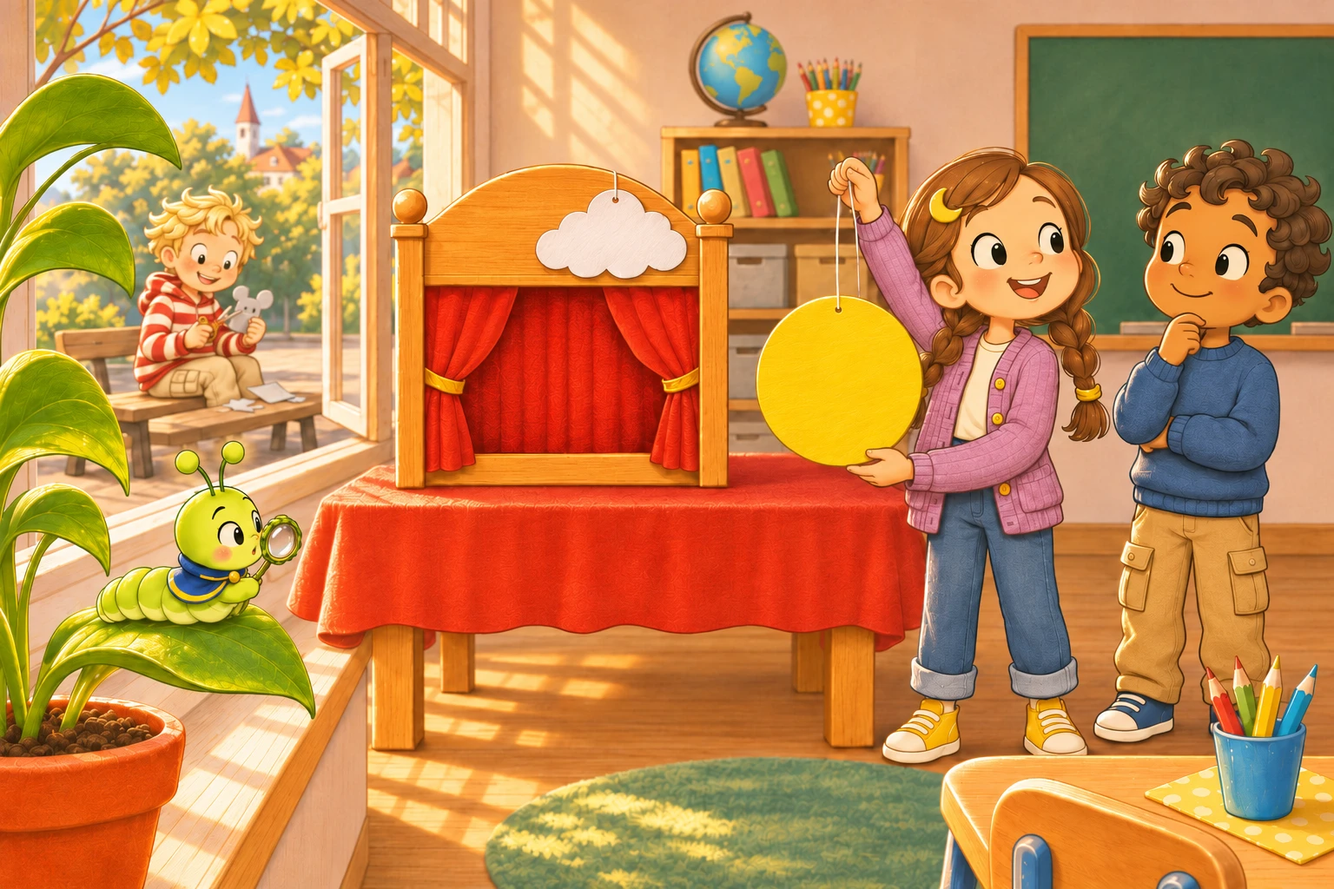
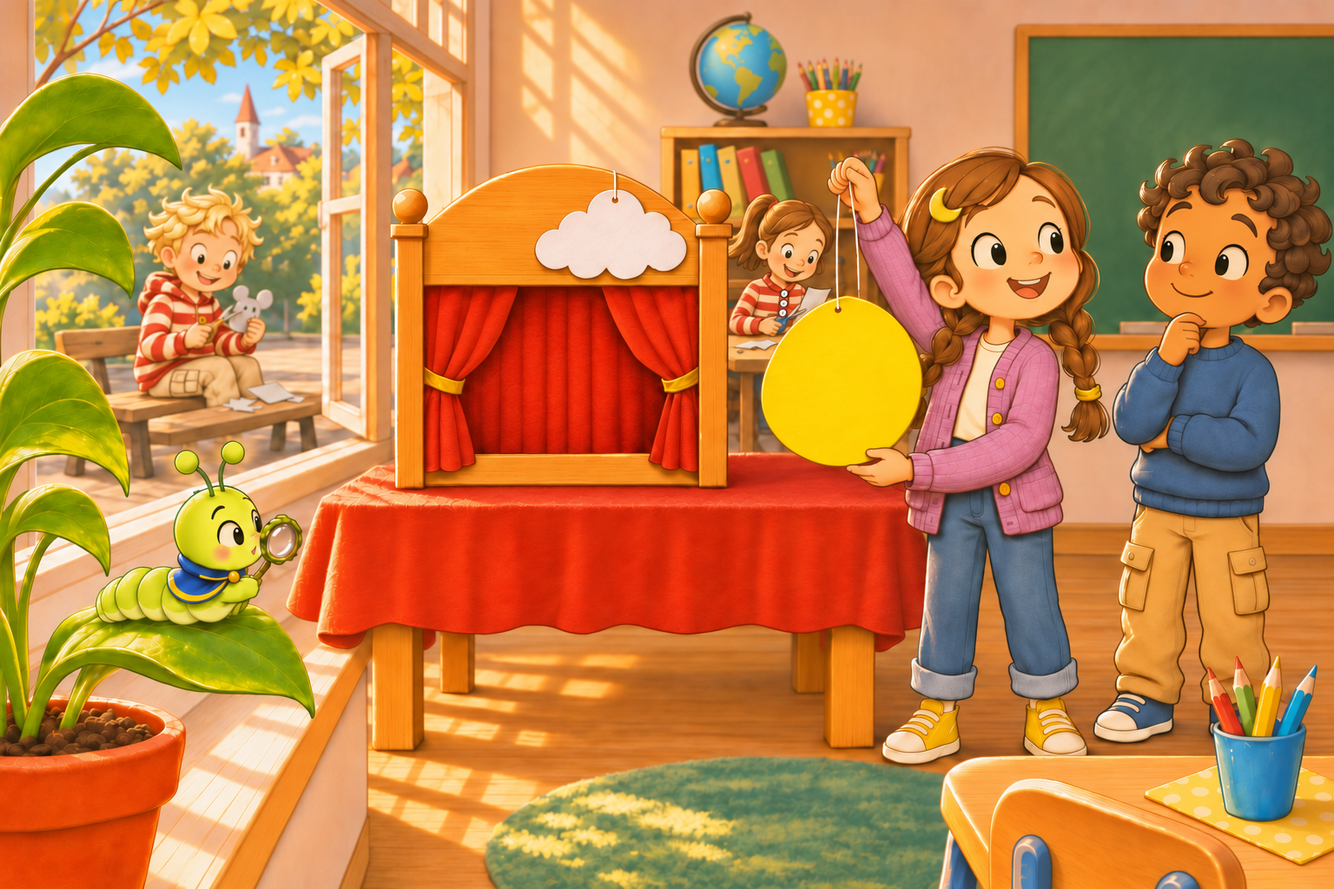
Bilder v8: alle 29 geliefert – k1_s1 mit Ida, Lina/Tom/Emil, Mond-Rückseiten, Vögel, gelbe Kreise vorn/hinten, Kinder von hinten, leerer Raum
Claude-Session: https://claude.ai/code/session_01XbiCnECXMiu6RfpngsWtJQ

diff --git a/02_design/BILDER_PROMPTS_v8.html b/02_design/BILDER_PROMPTS_v8.html
@@ -35,91 +35,15 @@ pre { white-space:pre-wrap; word-break:break-word; background:var(--pre); border
 :root[data-theme="dark"] .redo { background:#3A1F24; color:#FFC9C0; }
 </style></head><body><main>
 <h1>Картинки v8: что ещё нужно</h1>
-<p class="lead">Осталось 11: 9 переделать и 2 ещё не было. Готовые 18 уже в приложении и отсюда убраны. Нажмите «Скопировать промт», вставьте в генератор, приложите указанные эталоны из <code>assets/reference/</code> и <code>assets/illustrationen/</code>. Сохраните под именем из заголовка карточки и пришлите — разложу и вставлю в приложение.</p>
+<p class="lead">Осталось 0: 0 переделать и 0 ещё не было. Готовые 29 уже в приложении и отсюда убраны. Нажмите «Скопировать промт», вставьте в генератор, приложите указанные эталоны из <code>assets/reference/</code> и <code>assets/illustrationen/</code>. Сохраните под именем из заголовка карточки и пришлите — разложу и вставлю в приложение.</p>
 <ul class="rules">
 <li>Сначала карточки с красной плашкой «Почему переделать»: там сказано, что было не так.</li>
 <li><b>Стиль:</b> как остальные картинки книги — мягкая акварель и карандаш. Не плоская векторная графика и не глянцевое 3D.</li>
 <li>На предметах и детях фон светлый и ровный — вырезаю сама. У птиц фон ровный голубой: у сороки белое брюхо, на белом фоне его не вырезать.</li>
 <li>Нигде нет букв и цифр. Галочка «готово» запоминается только в этом браузере.</li>
 </ul>
-<nav><a href="#g0">Переделать · Глава 1 · правка <small>1</small></a><a href="#g1">Переделать · Дети (для глав 2–4) <small>3</small></a><a href="#g2">Переделать · Глава 2 <small>2</small></a><a href="#g3">Переделать · Глава 3 <small>3</small></a><a href="#g4">Ещё нет · Глава 4 <small>2</small></a><span id="stand"></span></nav>
-<section><h2 id="g0">Переделать · Глава 1 · правка</h2><article class="card" id="p1">
-  <header><span class="nr">1</span><code class="fn">k1_s1.webp</code>
-  <label class="done"><input type="checkbox" data-k="k1_s1"> готово</label></header>
-  <dl><dt>Где</dt><dd>Spur 1 — первая картинка книги</dd><dt>Приложить</dt><dd>сама картинка k1_s1 (редактировать её)</dd><dt>Формат</dt><dd>как оригинал (3:2)</dd></dl><p class="redo"><b>Почему переделать:</b> Пришла новая сцена вместо правки: Луна уже с коричневыми пятнами (спойлер Главы 3), Оскар в классе, а не во дворе. Нужно РЕДАКТИРОВАТЬ старую k1_s1: приложить её и попросить только дорисовать Иду сзади, всё остальное не трогать.</p><p class="note">Это Ида. Нужна, чтобы в финале главы Оскара нельзя было угадать заранее: решают пуговицы и капюшон.</p>
-  <pre>Edit the attached picture, keep everything else exactly as it is (same children, same room, same light, same style). Only add ONE more child in the background, a bit behind and to the side of the others: a girl with a light-brown ponytail, wearing a RED-AND-WHITE horizontally striped sweater WITHOUT a hood and WITH three round white buttons at the neck, busy with paper at the table. Her stripes must look like Oskar&#x27;s stripes, so that only the buttons and the missing hood tell them apart.</pre>
-  <button class="copy" type="button">Скопировать промт</button>
-</article></section><section><h2 id="g1">Переделать · Дети (для глав 2–4)</h2><article class="card" id="p2">
-  <header><span class="nr">2</span><code class="fn">kinder/lina.webp</code>
-  <label class="done"><input type="checkbox" data-k="kinder/lina"> готово</label></header>
-  <dl><dt>Где</dt><dd>ложные следы в главах 2–4, ряд подозреваемых</dd><dt>Приложить</dt><dd>лист детей (kinder_figurenblatt)</dd><dt>Формат</dt><dd>портрет 2:3, светлый фон (вырежу сама)</dd></dl><p class="redo"><b>Почему переделать:</b> Свитер верный, но каштановые косички — как у Милы. Нужна другая причёска (уже в промте).</p><p class="note">Цвет и узор свитера должны совпасть точно — по ним идёт загадка про рукав.</p>
-  <pre>Use the attached images as the exact reference for characters and style. Same children&#x27;s picture-book style. Plain warm white background, no text, no letters, no numbers, no stars. Every item clearly separated from the others with empty space around it, so it can be cut out. Soft hand-painted picture-book look (watercolor and colored pencil) like the attached images – NOT flat vector clip-art, no glossy 3D look.
-One child, full body, standing, friendly face, front view, about 8 years old, same drawing style and proportions as the attached children: a girl with straight BLACK hair in a short bob with a blue hairband (NOT braids), sweater with BLUE-and-white horizontal stripes and a hood. Dark trousers, sneakers. Nothing in the hands.</pre>
-  <button class="copy" type="button">Скопировать промт</button>
-</article><article class="card" id="p3">
-  <header><span class="nr">3</span><code class="fn">kinder/tom.webp</code>
-  <label class="done"><input type="checkbox" data-k="kinder/tom"> готово</label></header>
-  <dl><dt>Где</dt><dd>ложные следы в главах 2–4, ряд подозреваемых</dd><dt>Приложить</dt><dd>лист детей (kinder_figurenblatt)</dd><dt>Формат</dt><dd>портрет 2:3, светлый фон (вырежу сама)</dd></dl><p class="redo"><b>Почему переделать:</b> Свитер верный, но золотые кудри — как у Оскара. Нужны короткие чёрные прямые волосы (уже в промте).</p>
-  <pre>Use the attached images as the exact reference for characters and style. Same children&#x27;s picture-book style. Plain warm white background, no text, no letters, no numbers, no stars. Every item clearly separated from the others with empty space around it, so it can be cut out. Soft hand-painted picture-book look (watercolor and colored pencil) like the attached images – NOT flat vector clip-art, no glossy 3D look.
-One child, full body, standing, friendly face, front view, about 8 years old, same drawing style and proportions as the attached children: a boy with short straight BLACK hair and freckles (NOT blond, NOT curly), plain RED sweater with a hood, no stripes. Dark trousers, sneakers. Nothing in the hands.</pre>
-  <button class="copy" type="button">Скопировать промт</button>
-</article><article class="card" id="p4">
-  <header><span class="nr">4</span><code class="fn">kinder/emil.webp</code>
-  <label class="done"><input type="checkbox" data-k="kinder/emil"> готово</label></header>
-  <dl><dt>Где</dt><dd>ложные следы в главах 2–4, ряд подозреваемых</dd><dt>Приложить</dt><dd>лист детей (kinder_figurenblatt)</dd><dt>Формат</dt><dd>портрет 2:3, светлый фон (вырежу сама)</dd></dl><p class="redo"><b>Почему переделать:</b> Свитер верный, но тёмные кудри — как у Бена. Нужна прямая светло-русая стрижка (уже в промте).</p><p class="note">Цвет и узор свитера должны совпасть точно — по ним идёт загадка про рукав.</p>
-  <pre>Use the attached images as the exact reference for characters and style. Same children&#x27;s picture-book style. Plain warm white background, no text, no letters, no numbers, no stars. Every item clearly separated from the others with empty space around it, so it can be cut out. Soft hand-painted picture-book look (watercolor and colored pencil) like the attached images – NOT flat vector clip-art, no glossy 3D look.
-One child, full body, standing, friendly face, front view, about 8 years old, same drawing style and proportions as the attached children: a boy with straight light-brown hair in a bowl cut and round glasses (NOT curly), RED sweater with white polka dots and a hood. Dark trousers, sneakers. Nothing in the hands.</pre>
-  <button class="copy" type="button">Скопировать промт</button>
-</article></section><section><h2 id="g2">Переделать · Глава 2</h2><article class="card" id="p5">
-  <header><span class="nr">5</span><code class="fn">objekte/mond_hinten_feucht.webp</code>
-  <label class="done"><input type="checkbox" data-k="objekte/mond_hinten_feucht"> готово</label></header>
-  <dl><dt>Где</dt><dd>Spur 8 — как лежала Луна и почему</dd><dt>Приложить</dt><dd>objekte_1_mond + objekte_3_basteln (стиль предметов)</dd><dt>Формат</dt><dd>1:1</dd></dl><p class="redo"><b>Почему переделать:</b> Получился глянцевый шар, а не плоский картон; нитка — точка, спирали и мокрого клея не видно.</p><p class="note">Нитка свёрнута колечком — так в главе 3 из-под «сыра» виден только кончик (замечание ревью).</p>
-  <pre>Use the attached images as the exact reference for characters and style. Same children&#x27;s picture-book style. Plain warm white background, no text, no letters, no numbers, no stars except where the description asks for one. Every item clearly separated from the others with empty space around it, so it can be cut out. Soft hand-painted picture-book look (watercolor and colored pencil) like the attached images – NOT flat vector clip-art, no glossy 3D look.
-The flat round cardboard moon (a THIN flat cardboard disc, NOT a ball, no 3D shine) lying WHITE SIDE UP, seen exactly from above. On the white side a small hand-painted BLUE star near the edge. At the top edge the long white thread is clearly visible, neatly COILED into a flat spiral about a quarter of the disc wide, on the white side and held by a fresh, wet, shiny drop of white craft glue (glossy highlight so it clearly looks wet). Only a short thread end sticks out over the edge.</pre>
-  <button class="copy" type="button">Скопировать промт</button>
-</article><article class="card" id="p6">
-  <header><span class="nr">6</span><code class="fn">objekte/mond_hinten_faden.webp</code>
-  <label class="done"><input type="checkbox" data-k="objekte/mond_hinten_faden"> готово</label></header>
-  <dl><dt>Где</dt><dd>Spur 16 и доска: оборот Луны после ремонта Бена</dd><dt>Приложить</dt><dd>objekte_1_mond + objekte_3_basteln (стиль предметов)</dd><dt>Формат</dt><dd>1:1</dd></dl><p class="redo"><b>Почему переделать:</b> Тот же шар; свёрнутой нитки не видно, а это главная примета.</p><p class="note">Отличается от предыдущей только тем, что клей сухой (без блеска).</p>
-  <pre>Use the attached images as the exact reference for characters and style. Same children&#x27;s picture-book style. Plain warm white background, no text, no letters, no numbers, no stars except where the description asks for one. Every item clearly separated from the others with empty space around it, so it can be cut out. Soft hand-painted picture-book look (watercolor and colored pencil) like the attached images – NOT flat vector clip-art, no glossy 3D look.
-The same THIN flat cardboard disc (NOT a ball) lying WHITE SIDE UP, seen exactly from above, small hand-painted BLUE star near the edge. At the top edge the long white thread is clearly visible, neatly COILED into a flat spiral about a quarter of the disc wide and glued down, the glue is DRY (no shine). Only a short thread end sticks out over the edge.</pre>
-  <button class="copy" type="button">Скопировать промт</button>
-</article></section><section><h2 id="g3">Переделать · Глава 3</h2><article class="card" id="p7">
-  <header><span class="nr">7</span><code class="fn">voegel.webp</code>
-  <label class="done"><input type="checkbox" data-k="voegel"> готово</label></header>
-  <dl><dt>Где</dt><dd>Spur 14 «чья тень» и Spur 23 «какая птица?»</dd><dt>Приложить</dt><dd>лист гусенички (только для стиля)</dd><dt>Формат</dt><dd>5:1 или 3:1, белый фон (разрежу на 5)</dd></dl><p class="redo"><b>Почему переделать:</b> Рисунок хороший, но фон белый с пятном: белое брюхо сороки не вырезается. Нужен ровный ГОЛУБОЙ фон и акварельный стиль.</p><p class="note">Три чёрно-белые птицы специально: ребёнок должен различать по длинному хвосту и белому пятну на крыле.</p>
-  <pre>Use the attached images as the exact reference for characters and style. Same children&#x27;s picture-book style. Plain flat LIGHT-BLUE background (#CFE6F5), one even color, no gradient, no vignette, no text, no letters, no numbers, no stars. Every item clearly separated from the others with empty space around it, so it can be cut out. Soft hand-painted picture-book look (watercolor and colored pencil) like the attached images – NOT flat vector clip-art, no glossy 3D look.
-Five birds in a row, each sitting on a short twig, side view, the same size, with lots of space between them: 1) a magpie: black and white, white belly, white patch on the wing, very long black tail; 2) a white wagtail: small and slim, black-white-grey, long thin tail that it holds up; 3) a great spotted woodpecker: black and white with a red patch under the tail; 4) a blackbird: all black with a yellow-orange beak; 5) a great tit: yellow belly, black head with white cheeks.</pre>
-  <button class="copy" type="button">Скопировать промт</button>
-</article><article class="card" id="p8">
-  <header><span class="nr">8</span><code class="fn">gelbe_kreise_vorne.webp</code>
-  <label class="done"><input type="checkbox" data-k="gelbe_kreise_vorne"> готово</label></header>
-  <dl><dt>Где</dt><dd>Spur 16 — ключевой момент 2: какой круг Луна Милы (3 сверху, 2 снизу, под каждым круг свободное место)</dd><dt>Приложить</dt><dd>objekte_1_mond + objekte_3_basteln (стиль предметов)</dd><dt>Формат</dt><dd>23:20 (чуть выше, чем 1:1), светлый деревянный фон</dd></dl><p class="redo"><b>Почему переделать:</b> На кругах нет коричневых пятен (по сюжету это пять «сыров»), и формат другой: нужно 3 сверху и 2 снизу на деревянном столе.</p><p class="note">Порядок и положение кругов в обоих листах одинаковые: 1–3 в верхнем ряду слева направо, 4–5 внизу. Приложение кладёт заднюю сторону на ту же позицию.</p>
-  <pre>Use the attached images as the exact reference for characters and style. Same children&#x27;s picture-book style. Plain warm white background, no text, no letters, no numbers, no stars. Every item clearly separated from the others with empty space around it, so it can be cut out. Soft hand-painted picture-book look (watercolor and colored pencil) like the attached images – NOT flat vector clip-art, no glossy 3D look.
-Five flat round yellow cardboard circles seen from the front on a plain light-brown wooden table, same size, in two rows: THREE circles in the top row and TWO circles in the bottom row, the bottom two sitting centered between the top ones. There must be a clear empty gap below every circle (about half a circle high) for a button. Landscape, aspect about 23:20. They differ only a little: 1) lemon yellow, 2) golden yellow, 3) yellow with a slightly torn edge, 4) warm yellow, smooth edge, 5) pale yellow. Each circle has exactly three round brown spots (one on top, two below). No faces, no drawings, no holes.</pre>
-  <button class="copy" type="button">Скопировать промт</button>
-</article><article class="card" id="p9">
-  <header><span class="nr">9</span><code class="fn">gelbe_kreise_hinten.webp</code>
-  <label class="done"><input type="checkbox" data-k="gelbe_kreise_hinten"> готово</label></header>
-  <dl><dt>Где</dt><dd>Spur 16 — оборотная сторона (одновременно виден только один круг)</dd><dt>Приложить</dt><dd>objekte_1_mond + objekte_3_basteln (стиль предметов)</dd><dt>Формат</dt><dd>23:20, тот же формат, что и «vorne»</dd></dl><p class="redo"><b>Почему переделать:</b> Сделано по старому описанию. Загадка изменилась: у каждого круга хотя бы одна верная примета (см. новый промт), расположение 3 + 2, как у лицевых.</p><p class="note">Правильный круг — №4 (внизу слева): звезда + аккуратная спираль нитки + дырочка. Звезда есть на №1 и №4, нитка — на №2 (висит, узел) и №4 (свёрнута), дырочка — на №3, №4 и №5. У каждого круга есть хотя бы один верный признак.</p>
-  <pre>Use the attached images as the exact reference for characters and style. Same children&#x27;s picture-book style. Plain warm white background, no text, no letters, no numbers, no stars except where the description asks for one. Every item clearly separated from the others with empty space around it, so it can be cut out. Soft hand-painted picture-book look (watercolor and colored pencil) like the attached images – NOT flat vector clip-art, no glossy 3D look.
-The BACKS of the same five flat round cardboard circles, same table, same positions and size as the front picture (three in the top row, two in the bottom row, gaps below each). Every back is white with a thin golden edge: 1) a small blue star painted near the lower edge, nothing else (no hole, no thread); 2) a white thread lying loose and knotted over the top edge, hanging down outside the circle, no star, no hole; 3) a small round punched hole near the top edge (the table shows through it) AND a small red heart painted near the lower edge; 4) a small blue star near the lower edge AND a small punched hole near the top edge AND a white thread neatly coiled into a flat spiral and glued down next to the hole (dry glue, no shine); 5) only a small round punched hole near the top edge, nothing else.</pre>
-  <button class="copy" type="button">Скопировать промт</button>
-</article></section><section><h2 id="g4">Ещё нет · Глава 4</h2><article class="card" id="p10">
-  <header><span class="nr">10</span><code class="fn">objekte/kinder_hinten.webp</code>
-  <label class="done"><input type="checkbox" data-k="objekte/kinder_hinten"> готово</label></header>
-  <dl><dt>Где</dt><dd>Spur 20 — лупа: найти розовый хвост мыши среди розовых отвлекающих деталей</dd><dt>Приложить</dt><dd>лист детей (kinder_figurenblatt)</dd><dt>Формат</dt><dd>3:2</dd></dl><p class="note">Три розовых детали: бантики (Мила), шнурки (Бен) и хвост из капюшона Оскара — только хвост настоящий.</p>
-  <pre>Use the attached images as the exact reference for characters, places and style. Indoors always the same classroom as in the attached classroom image: the NATURAL WOOD puppet theater (light wood, two posts with round knobs, the top board is ONE smooth round arch – not wavy) on the big table with the red tablecloth, the window with the caterpillar&#x27;s plant on the LEFT. Children&#x27;s picture-book illustration in exactly the same style, landscape 3:2. No text, no letters, no numbers, no stars anywhere. Mila has no backpack. The hand puppets are a fox, a bear and a king – never a mouse (the only mouse in the book is Oskar&#x27;s small grey PAPER mouse). The moon is always a FULL ROUND flat cardboard disc (never a crescent): yellow on the front, white on the back.
-Three children seen from BEHIND, standing in a row in front of a classroom wall, full body, friendly cartoon style, LANDSCAPE 3:2, a bit of space between them: a girl with two brown braids, each braid tied with a tiny PINK ribbon, lilac cardigan (Mila); a boy with dark curly hair and a BLUE sweater (Ben), sneakers with thin PINK shoelaces; a boy with tousled BLOND hair in a RED-AND-WHITE striped hooded sweater (Oskar), and from his hood hangs a very thin, long PINK mouse tail. The pink details are small, the tail must be easy to miss without a magnifier.</pre>
-  <button class="copy" type="button">Скопировать промт</button>
-</article><article class="card" id="p11">
-  <header><span class="nr">11</span><code class="fn">objekte/raum_leer.webp</code>
-  <label class="done"><input type="checkbox" data-k="objekte/raum_leer"> готово</label></header>
-  <dl><dt>Где</dt><dd>Spur 21 — фон для «найди, что изменилось» (предметы кладу поверх программно)</dd><dt>Приложить</dt><dd>2 листа гусенички + лист детей (kinder_figurenblatt) + k1_s1 (комната)</dd><dt>Формат</dt><dd>3:2</dd></dl>
-  <pre>Use the attached images as the exact reference for characters, places and style. Indoors always the same classroom as in the attached classroom image: the NATURAL WOOD puppet theater (light wood, two posts with round knobs, the top board is ONE smooth round arch – not wavy) on the big table with the red tablecloth, the window with the caterpillar&#x27;s plant on the LEFT. Children&#x27;s picture-book illustration in exactly the same style, landscape 3:2. No text, no letters, no numbers, no stars anywhere. Mila has no backpack. The hand puppets are a fox, a bear and a king – never a mouse (the only mouse in the book is Oskar&#x27;s small grey PAPER mouse). The moon is always a FULL ROUND flat cardboard disc (never a crescent): yellow on the front, white on the back.
-The empty classroom group room, LANDSCAPE 3:2, seen straight on: a cream wall with a green blackboard on the left, a small window on the right, a wooden rail on the wall on the left, a wooden floor with planks. No furniture, no people, no objects.</pre>
-  <button class="copy" type="button">Скопировать промт</button>
-</article></section>
+<nav><span id="stand"></span></nav>
+
 </main>
 <script>
 const KEY = 'lesefall.bilder.v8';

diff --git a/02_design/bilder_prompts_v8.py b/02_design/bilder_prompts_v8.py
@@ -181,7 +181,9 @@ The same safe, now open: the door swings open, warm golden light streams out; in
 # Fertig und im Repo (assets/illustrationen/...): erscheinen nicht mehr auf der Seite.
 FERTIG = {"kinder/ida", "kinder/nele", "objekte/fuchs_puppe", "objekte/koenig_puppe", "objekte/pappbaum", "objekte/papierstapel",
           "objekte/raetsel_kaese", "objekte/raetsel_keks", "objekte/raetsel_sonne", "objekte/raetsel_ball", "objekte/raetsel_zitrone",
-          "objekte/raetsel_schwamm", "plakat", "baum", "baum_nest", "nest_finale", "tresor_zu", "tresor_auf"}
+          "objekte/raetsel_schwamm", "plakat", "baum", "baum_nest", "nest_finale", "tresor_zu", "tresor_auf",
+          "k1_s1", "kinder/lina", "kinder/tom", "kinder/emil", "objekte/mond_hinten_feucht", "objekte/mond_hinten_faden",
+          "voegel", "gelbe_kreise_vorne", "gelbe_kreise_hinten", "objekte/kinder_hinten", "objekte/raum_leer"}
 # Geliefert, aber nicht passend: Grund steht auf der Karte.
 NOCHMAL = {
     "k1_s1": "Пришла новая сцена вместо правки: Луна уже с коричневыми пятнами (спойлер Главы 3), Оскар в классе, а не во дворе. Нужно РЕДАКТИРОВАТЬ старую k1_s1: приложить её и попросить только дорисовать Иду сзади, всё остальное не трогать.",
@@ -278,7 +280,7 @@ pre {{ white-space:pre-wrap; word-break:break-word; background:var(--pre); borde
 :root[data-theme="dark"] .redo {{ background:#3A1F24; color:#FFC9C0; }}
 </style></head><body><main>
 <h1>Картинки v8: что ещё нужно</h1>
-<p class="lead">Осталось {len(P)}: {sum(1 for p in P if p.get("redo"))} переделать и {sum(1 for p in P if not p.get("redo"))} ещё не было. Готовые 18 уже в приложении и отсюда убраны. Нажмите «Скопировать промт», вставьте в генератор, приложите указанные эталоны из <code>assets/reference/</code> и <code>assets/illustrationen/</code>. Сохраните под именем из заголовка карточки и пришлите — разложу и вставлю в приложение.</p>
+<p class="lead">Осталось {len(P)}: {sum(1 for p in P if p.get("redo"))} переделать и {sum(1 for p in P if not p.get("redo"))} ещё не было. Готовые {29 - len(P)} уже в приложении и отсюда убраны. Нажмите «Скопировать промт», вставьте в генератор, приложите указанные эталоны из <code>assets/reference/</code> и <code>assets/illustrationen/</code>. Сохраните под именем из заголовка карточки и пришлите — разложу и вставлю в приложение.</p>
 <ul class="rules">
 <li>Сначала карточки с красной плашкой «Почему переделать»: там сказано, что было не так.</li>
 <li><b>Стиль:</b> как остальные картинки книги — мягкая акварель и карандаш. Не плоская векторная графика и не глянцевое 3D.</li>\n<li>На предметах и детях фон светлый и ровный — вырезаю сама. У птиц фон ровный голубой: у сороки белое брюхо, на белом фоне его не вырезать.</li>

diff --git a/app/scripts/freistellen.py b/app/scripts/freistellen.py
@@ -9,7 +9,7 @@ ROOT = os.path.join(os.path.dirname(__file__), '..', '..')
 SRC = os.path.join(ROOT, 'assets/illustrationen/objekte')
 DST = os.path.join(ROOT, 'app/src/gen/objekte')
 os.makedirs(DST, exist_ok=True)
-OHNE = {'plakat.webp'}  # ganze Bilder mit eigenem Papiergrund: nicht freistellen
+OHNE = {'plakat.webp', 'gelbe_kreise_vorne.webp', 'gelbe_kreise_hinten.webp', 'kinder_hinten.webp', 'raum_leer.webp'}  # ganze Bilder mit eigenem Papiergrund: nicht freistellen
 JOBS = [(f, os.path.join(DST, os.path.basename(f))) for f in sorted(glob.glob(os.path.join(SRC, '*.webp'))) if os.path.basename(f) not in OHNE]
 # Figuren, die im Spiel als Ding gelegt werden (z. B. Spur 2: die Lese-Raupe unter das Blatt)
 FREI = os.path.join(ROOT, 'app/src/gen/frei')
@@ -29,9 +29,9 @@ KDST = os.path.join(ROOT, 'app/src/gen/kinder')
 os.makedirs(KDST, exist_ok=True)
 JOBS += [(f, os.path.join(KDST, os.path.basename(f))) for f in sorted(glob.glob(os.path.join(ROOT, 'assets/illustrationen/kinder', '*.webp')))]
 # Feinere Schwelle / größere Breite für Bilder mit weißen Flächen am Rand (Elster: weißer Bauch)
-SCHWELLE = {'voegel.webp': 20}
+SCHWELLE = {}
 BREITE = {'voegel.webp': 1400}
-WARM = {'voegel.webp'}
+WARM = set()
 for f, ziel in JOBS:
     src = Image.open(f)
     if src.mode == 'RGBA':  # hat schon Transparenz (z. B. Tasche, Mondbrosche): nur übernehmen
